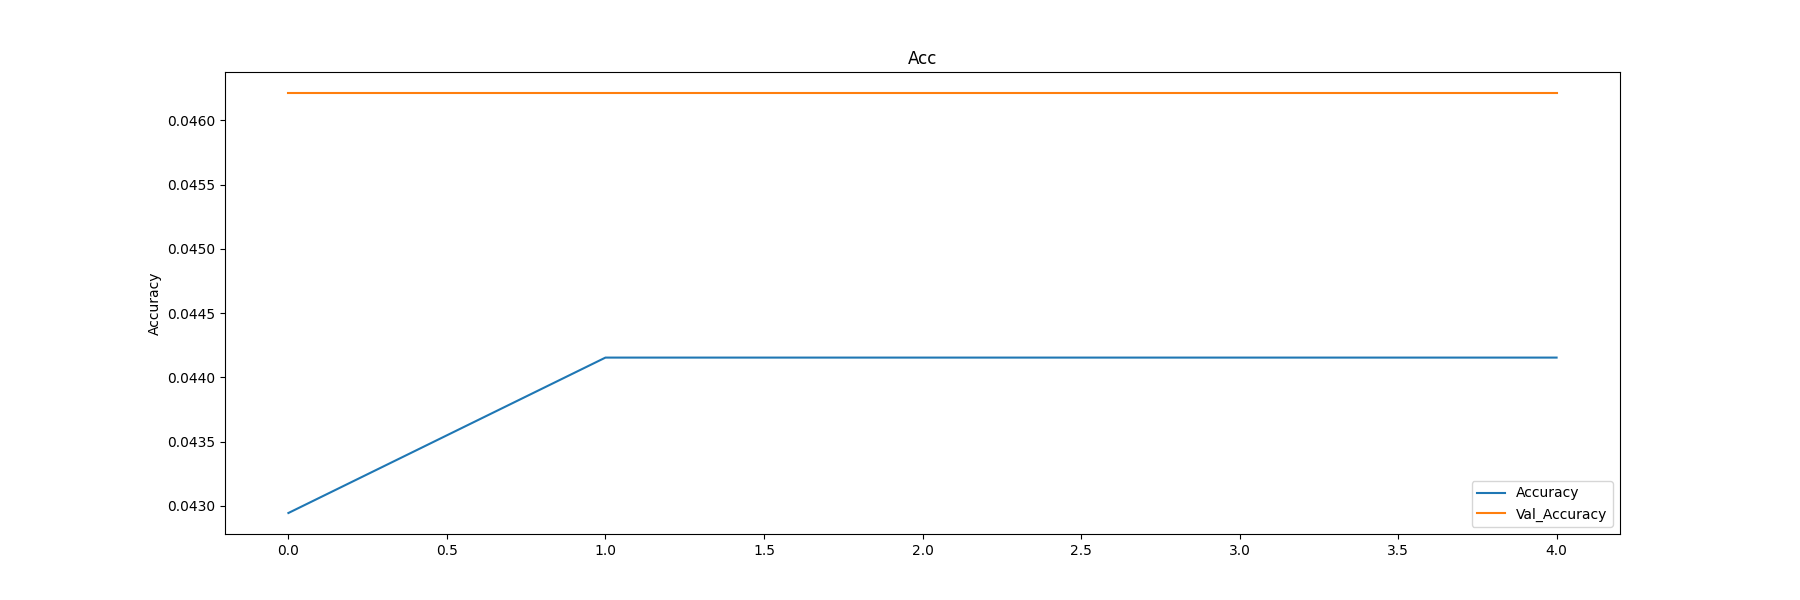
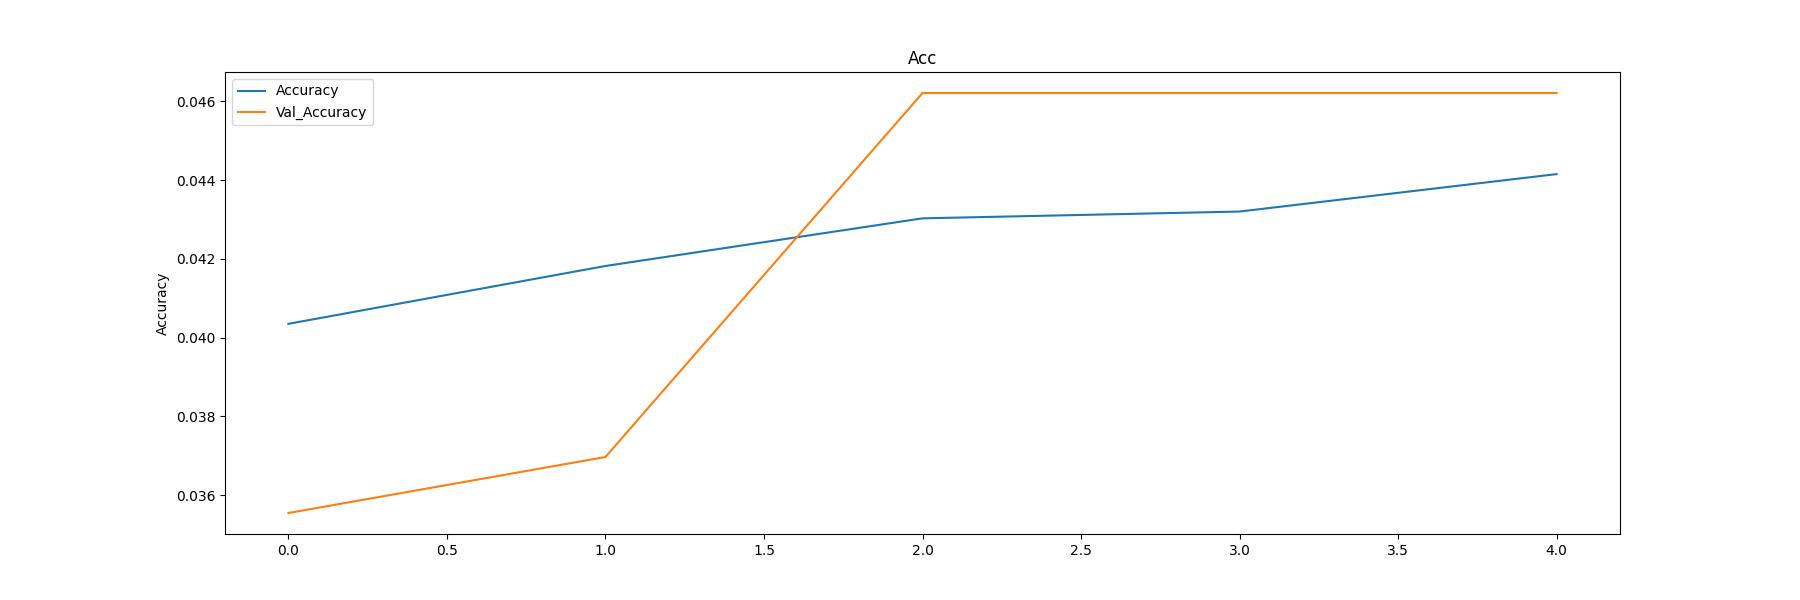
[AUTO] training model vversion-0.3, epoch 5.

diff --git a/commands/train_and_save.py b/commands/train_and_save.py
@@ -8,7 +8,7 @@ from commands.git import git_auto_commit
 from commands.history_plot import update_readme
 from commands.vram_monitor import VRAMMonitor
 from model.data import flow_from_directory
-from model.settings import VERSION
+from model.settings import VERSION, BATCH_SIZE
 
 def read_history(hist_path):
     with open(hist_path) as csvfile:
@@ -49,7 +49,7 @@ def train_and_save(model, epochs, save_interval = None, custom_metrics = None, c
     else:
         history = create_history(hist_path, custom_metrics)
         initial_epoch = 0
-        batch_size = 32
+        batch_size = BATCH_SIZE
 
         model = compile_model(model, custom_metrics, custom_optimizer)
         print(model.summary())

diff --git a/model/model.py b/model/model.py
@@ -16,17 +16,14 @@ with tf.device("/GPU:0"):
     # Conv Blocks (Added more filters)
 
     model.add(Conv2D(filters=16, kernel_size=7, padding = 'same', kernel_initializer = 'he_normal'))
-    model.add(BatchNormalization())
     model.add(ReLU())
     model.add(MaxPooling2D(pool_size=2))
 
     model.add(Conv2D(filters=32, kernel_size=5, padding = 'same', kernel_initializer = 'he_normal'))
-    model.add(BatchNormalization())
     model.add(ReLU())
     model.add(MaxPooling2D(pool_size=2))
 
     model.add(Conv2D(filters=64, kernel_size=3, padding = 'same', kernel_initializer = 'he_normal'))
-    model.add(BatchNormalization())
     model.add(ReLU())
     model.add(MaxPooling2D(pool_size=2))
 

diff --git a/model/settings.py b/model/settings.py
@@ -7,9 +7,9 @@ SCALE = 0.8
 HEIGHT = round(560 * SCALE)
 WIDTH = round(950 * SCALE)
 N_CATEGORIES = 39
-BATCH_SIZE = 16
+BATCH_SIZE = 32
 MIN_BATCH_SIZE = 8
-MAX_BATCH_SIZE = 16
+MAX_BATCH_SIZE = 32
 
 
 SCHEDULE = tf.keras.optimizers.schedules.ExponentialDecay(
